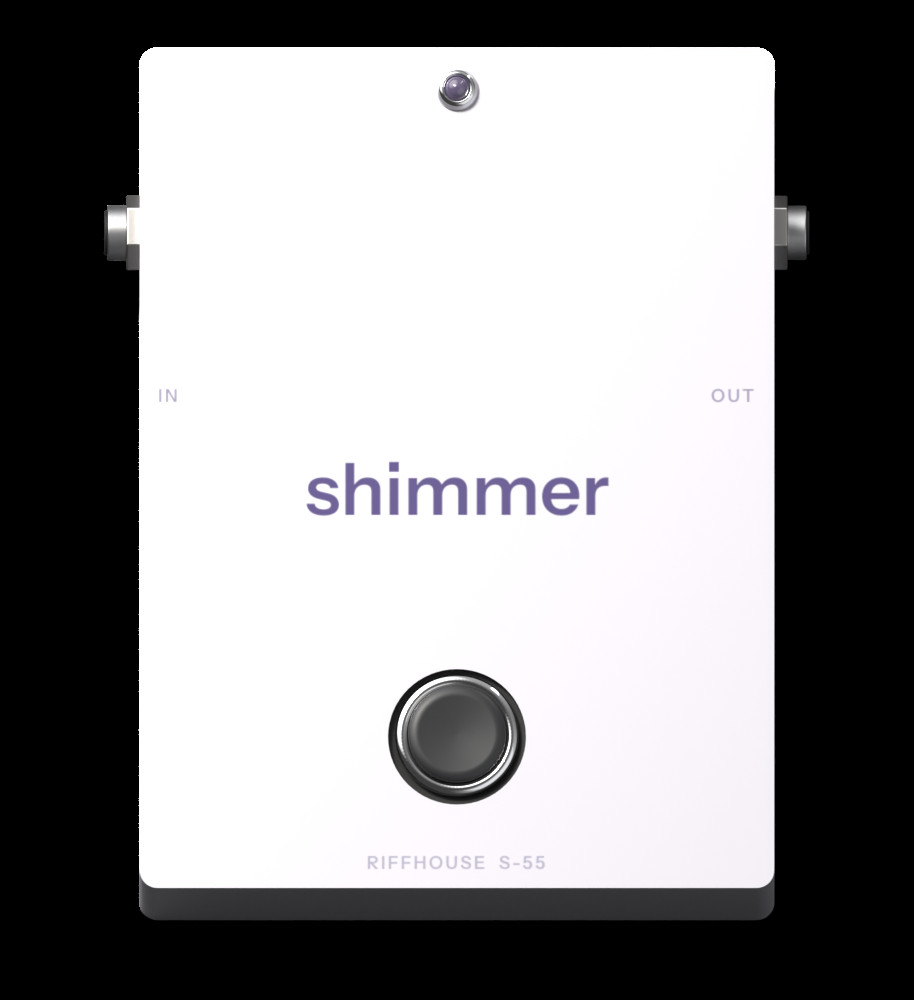
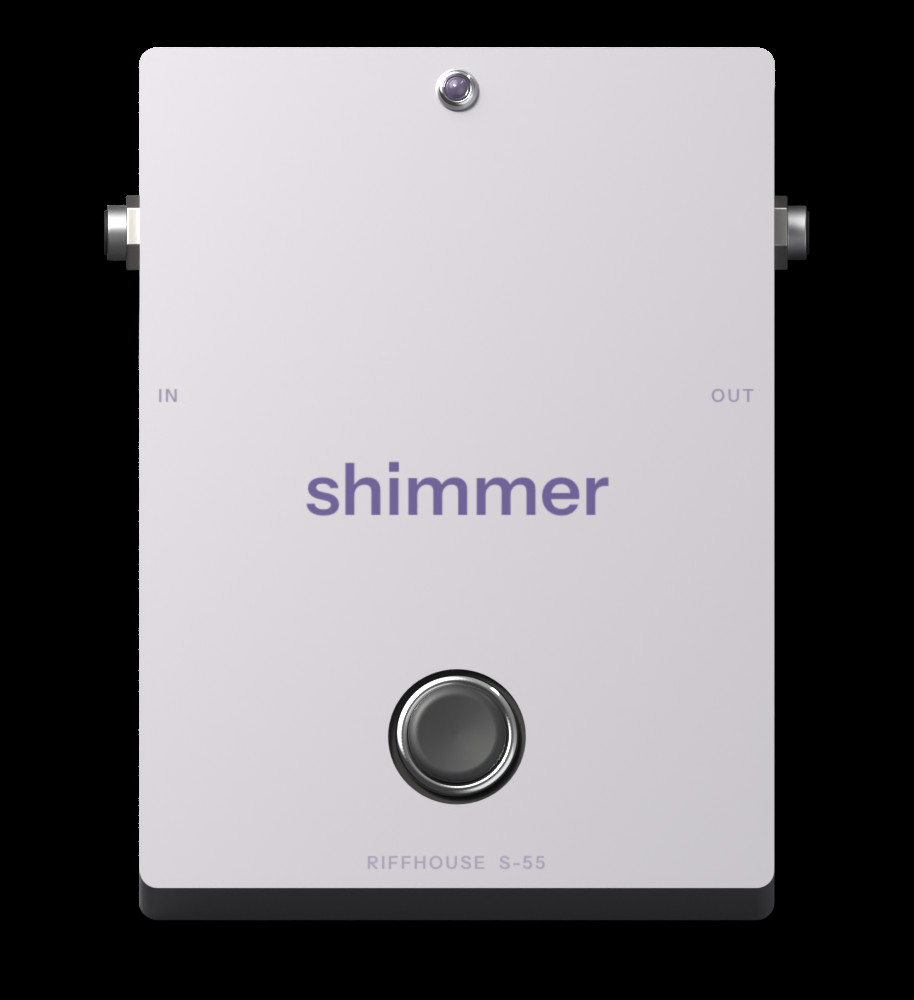
Panel hardware photographed in 3D: power switch, pilot lamps, screws, input jack; shimmer pedal no longer burns out to white

diff --git a/tools/gear3d/parts.py b/tools/gear3d/parts.py
@@ -140,6 +140,110 @@ def fader_cap():
     return obs
 
 
+# ------------------------------------------------------------------ panel hardware
+# Each picture is a square round the middle of the part, `canvas` nominal pixels wide, and the
+# app scales it from the size it draws that part at (see HARDWARE in src/ui/Gear.cpp).
+JEWELS = ("f2351f", "ffc35a", "ec2f1b", "7dffa0", "6fb7ff", "ff9f1c")
+
+
+def hw_stage(canvas, px, samples):
+    return c.Stage((0.0, 0.0, canvas, canvas), 0.0, scale=px / canvas, samples=samples)
+
+
+def nut_and_washer(rn=13.0):
+    """A chrome hex nut on a turned washer, `rn` nominal pixels to its corners."""
+    k = CM
+    washer = c.lathe("washer", [(rn * 1.12 * k, 0.0), (rn * 1.12 * k, 0.5 * k), (rn * 1.09 * k, 0.8 * k), (0.0001, 0.8 * k)], c.nickel(), seg=128)
+    nut = c.prism("nut", 6, rn * k, 0.8 * k, 4.4 * k, c.principled("nut", (0.86, 0.86, 0.87), metallic=1.0, rough=0.16),
+                  rot=math.radians(90), round_edges=0.55 * k)
+    return [washer, nut]
+
+
+def toggle(on):
+    """A bat-handle toggle: nut, threaded bush, and a chrome lever ending in a ball, leaning up when on."""
+    k = CM
+    obs = nut_and_washer()
+    prof = [(6.6 * k, 4.2 * k)]
+    z = 4.6
+    while z < 9.6:                                      # the thread: small turned ridges
+        prof += [(6.6 * k, z * k), (6.15 * k, (z + 0.35) * k)]
+        z += 0.7
+    prof += [(6.6 * k, 9.8 * k), (6.3 * k, 10.2 * k), (3.9 * k, 10.2 * k), (3.9 * k, 9.4 * k), (0.0001, 9.4 * k)]
+    chrome = c.principled("lever", (0.9, 0.9, 0.91), metallic=1.0, rough=0.1)
+    obs.append(c.lathe("bush", prof, c.principled("bush", (0.8, 0.8, 0.81), metallic=1.0, rough=0.2), seg=96))
+    obs.append(c.lathe("mouth", [(3.9 * k, 9.4 * k), (3.9 * k, 9.45 * k), (0.0001, 9.45 * k)], c.black(), seg=48))
+    lever = c.lathe("rod", [(3.4 * k, 0.0), (3.4 * k, 1.6 * k), (3.0 * k, 3.2 * k), (2.3 * k, 17.0 * k), (2.3 * k, 19.5 * k), (0.0001, 19.5 * k)], chrome, seg=48)
+    ball = [(0.0001, 18.2 * k)]
+    for i in range(1, 24):
+        a = -math.pi / 2 + math.pi * i / 24
+        ball.append((4.4 * k * math.cos(a), (22.6 + 4.4 * math.sin(a)) * k))
+    ball.append((0.0001, 27.0 * k))
+    bob = c.lathe("ball", ball, chrome, seg=64)
+    for ob in (lever, bob):
+        ob.location = (0.0, 0.0, 7.0 * k)
+        ob.rotation_euler[0] = math.radians(-48.0 if on else 48.0)   # +y is away from the player: up the picture
+        c.bpy.context.view_layer.objects.active = ob
+    return obs + [lever, bob]
+
+
+def jack():
+    """A quarter-inch input socket: nut and washer, a chrome sleeve, the dark hole."""
+    k = CM
+    obs = nut_and_washer()
+    obs.append(c.lathe("sleeve", [(8.2 * k, 4.0 * k), (8.2 * k, 5.6 * k), (7.6 * k, 6.0 * k), (5.6 * k, 6.0 * k), (5.2 * k, 5.4 * k), (5.2 * k, 1.0 * k), (0.0001, 1.0 * k)],
+                       c.principled("sleeve", (0.88, 0.88, 0.89), metallic=1.0, rough=0.12), seg=96))
+    obs.append(c.lathe("hole", [(5.15 * k, 5.3 * k), (5.15 * k, 1.1 * k), (0.0001, 1.1 * k)], c.principled("hole", (0.004, 0.004, 0.004), rough=0.7), seg=64))
+    return obs
+
+
+def screw(turn):
+    """A domed slotted screw head, 10 nominal pixels across its radius."""
+    import bmesh  # noqa: F401
+    k, rr = CM, 10.0
+    prof = [(rr * k, 0.0), (rr * k, 0.6 * k)]
+    for i in range(1, 13):
+        a = (math.pi / 2) * i / 12
+        prof.append((max(0.0001, rr * k * math.cos(a)), (0.6 + 3.2 * math.sin(a)) * k))
+    head = c.lathe("head", prof, c.principled("screw", (0.74, 0.74, 0.73), metallic=1.0, rough=0.3), seg=96)
+    slot = c.box("slot", -rr * 1.2 * k, rr * 1.2 * k, -1.1 * k, 1.1 * k, 2.0 * k, 6.0 * k, c.black())
+    slot.rotation_euler[2] = turn
+    c.cut(head, slot)
+    c.roll(head, 0.25 * k, 2, 50)
+    return [head]
+
+
+def jewel(hex_colour, on):
+    """A pilot light: a knurled chrome bezel round a faceted glass jewel, 12 nominal pixels to its rim."""
+    k, rr = CM, 12.0
+    col = c.rgb(hex_colour)
+    bezel = c.lathe("bezel", [(17.5 * k, 0.0), (17.5 * k, 1.6 * k), (17.0 * k, 2.4 * k), (13.0 * k, 2.6 * k), (12.4 * k, 1.8 * k), (12.4 * k, 0.4 * k), (0.0001, 0.4 * k)],
+                    c.principled("bezel", (0.86, 0.86, 0.87), metallic=1.0, rough=0.18), seg=160, flutes=40, depth=0.04, flute_rings=(0, 1))
+    glass = c.principled("jewel", tuple(v * (0.8 if on else 0.3) for v in col), rough=0.04, coat=1.0, coat_rough=0.02,
+                         emission=col if on else None, strength=1.1 if on else 0.0)
+    prof = [(rr * k, 0.4 * k), (rr * k, 1.4 * k), (rr * 0.82 * k, 4.0 * k), (rr * 0.45 * k, 5.6 * k), (0.0001, 6.0 * k)]
+    gem = c.lathe("gem", prof, glass, seg=12)                    # few sides: cut facets that catch the light
+    for p in gem.data.polygons:
+        p.use_smooth = False
+    return [bezel, gem]
+
+
+def hardware(out, px, samples, only):
+    jobs = {"hw-toggle-on": (96.0, lambda: toggle(True)), "hw-toggle-off": (96.0, lambda: toggle(False)),
+            "hw-jack": (64.0, jack)}
+    for i in range(4):
+        jobs["hw-screw-%d" % i] = (40.0, (lambda t: lambda: screw(t))(math.pi * i / 4))
+    for h in JEWELS:
+        for on in (True, False):
+            jobs["hw-jewel-%s-%s" % (h, "on" if on else "off")] = (80.0, (lambda hh, oo: lambda: jewel(hh, oo))(h, on))
+    for name, (canvas, make) in jobs.items():
+        if only and name not in only and "hw" not in only:
+            continue
+        print("part", name, flush=True)
+        st = hw_stage(canvas, px, samples)
+        make()
+        st.render(os.path.join(out, name + ".png"))
+
+
 def main():
     args = sys.argv[sys.argv.index("--") + 1:] if "--" in sys.argv else sys.argv[1:]
     out = args[0]
@@ -172,6 +276,8 @@ def main():
             st = stage(px, samples)
             knob_chicken(r, START + (END - START) * f / (FRAMES - 1))
             st.render(os.path.join(out, "_chicken", "%02d.png" % f))
+    if not only or any(n.startswith("hw") for n in only):
+        hardware(out, px, samples, only)
     if not only or "fader-cap" in only:
         print("part fader-cap", flush=True)
         st = stage(px, samples)

diff --git a/src/ui/Gear.cpp b/src/ui/Gear.cpp
@@ -25,8 +25,24 @@ namespace
         g.fillRoundedRectangle (r, radius);
     }
 
+    // Panel hardware photographed in 3D (tools/gear3d/parts.py), placed by its centre on a square canvas.
+    bool hardware (juce::Graphics& g, const juce::String& name, juce::Point<float> c, float canvas)
+    {
+        return art::draw (g, name, R (canvas, canvas).withCentre (c));
+    }
+
+    // a pilot jewel is photographed in each colour the amps use, lit and dark
+    juce::String jewelArtName (juce::uint32 colour, bool on)
+    {
+        return "hw_jewel_" + juce::String::toHexString ((juce::int64) (colour & 0xffffff)).paddedLeft ('0', 6) + (on ? "_on" : "_off");
+    }
+
     void screw (juce::Graphics& g, juce::Point<float> c, float size, float turn)
     {
+        // the slot repeats every half turn: photographed at four angles, take the nearest
+        const float q = juce::MathConstants<float>::pi * 0.25f;
+        const int frame = ((int) std::lround (turn / q) % 4 + 4) % 4;
+        if (hardware (g, "hw_screw_" + juce::String (frame), c, size * 2.0f)) return;
         const auto r = R (size, size).withCentre (c);
         g.setColour (juce::Colours::black.withAlpha (0.45f));
         g.fillEllipse (r.translated (0.0f, 0.8f).expanded (0.6f));
@@ -218,6 +234,7 @@ namespace
     // A quarter-inch jack socket in a panel: nut, washer and the dark hole.
     void jackSocket (juce::Graphics& g, juce::Point<float> c, float radius)
     {
+        if (hardware (g, "hw_jack", c, radius * 64.0f / 13.0f)) return;
         hexNut (g, c, radius);
         const auto hole = R (radius * 0.86f, radius * 0.86f).withCentre (c);
         g.setGradientFill (juce::ColourGradient (C (0xff050505), hole.getX(), hole.getY(), C (0xff2a2b2c), hole.getRight(), hole.getBottom(), false));
@@ -1942,6 +1959,8 @@ namespace
     void lampHousing (juce::Graphics& g, const AmpLayout& l, const AmpDesign& d)
     {
         const auto jc = l.jewel.getCentre();
+        if (d.lamp != 2 && art::has ("hw_toggle_on") && art::has (jewelArtName (d.jewel, true)))
+            return; // the photographed switch and lamp bring their own nut, bush and bezel
         if (d.lamp == 1)
         {
             hexNut (g, jc, 13.0f);
@@ -2319,6 +2338,18 @@ void drawAmpJewel (juce::Graphics& g, const AmpLayout& l, const AmpDesign& d, bo
         // a bat-handle toggle: up is on. Its little lamp sits above it. The lever is a turned
         // chrome rod that thickens to a ball; seen from above it leans toward the top or the bottom.
         const auto c = r.getCentre();
+        if (art::has (jewelArtName (d.jewel, on)) && hardware (g, on ? "hw_toggle_on" : "hw_toggle_off", c, 96.0f))
+        {
+            r = R (9.0f, 9.0f).withCentre ({ c.x, c.y - 32.0f }); // a touch higher: the raised lever's ball clears its bezel
+            if (on)
+            {
+                const float halo = r.getWidth() * 1.4f;
+                g.setGradientFill (juce::ColourGradient (jewel.withAlpha (0.32f), r.getCentreX(), r.getCentreY(), jewel.withAlpha (0.0f), r.getCentreX() + halo, r.getCentreY(), true));
+                g.fillEllipse (r.expanded (halo));
+            }
+            hardware (g, jewelArtName (d.jewel, on), r.getCentre(), 80.0f * r.getWidth() * 0.5f / 12.0f);
+            return;
+        }
         const float dir = on ? -1.0f : 1.0f;
         const float len = 17.0f, baseW = 4.4f, neckW = 3.3f, ball = 4.5f;
         const juce::Point<float> tip (c.x + 0.4f, c.y + dir * len);
@@ -2404,12 +2435,15 @@ void drawAmpJewel (juce::Graphics& g, const AmpLayout& l, const AmpDesign& d, bo
         g.drawEllipse (R (6.0f, 6.0f).withCentre ({ face.getCentreX(), face.getBottom() - 9.0f }), 1.2f);
         return;
     }
+    const bool photographed = d.lamp == 0 && art::has (jewelArtName (d.jewel, on)) && art::has ("hw_toggle_on");
     if (on)
     {
         const float halo = r.getWidth() * 1.4f;
-        g.setGradientFill (juce::ColourGradient (jewel.withAlpha (0.42f), r.getCentreX(), r.getCentreY(), jewel.withAlpha (0.0f), r.getCentreX() + halo, r.getCentreY(), true));
+        g.setGradientFill (juce::ColourGradient (jewel.withAlpha (photographed ? 0.32f : 0.42f), r.getCentreX(), r.getCentreY(), jewel.withAlpha (0.0f), r.getCentreX() + halo, r.getCentreY(), true));
         g.fillEllipse (r.expanded (halo));
     }
+    if (photographed && hardware (g, jewelArtName (d.jewel, on), r.getCentre(), 80.0f * r.getWidth() * 0.5f / 12.0f))
+        return;
     juce::ColourGradient glass (on ? hot : jewel.darker (2.0f), r.getCentreX() - r.getWidth() * 0.12f, r.getCentreY() - r.getWidth() * 0.12f,
                                 on ? jewel.darker (0.35f) : jewel.darker (3.5f), r.getRight(), r.getBottom(), true);
     if (on) glass.addColour (0.45, jewel);

diff --git a/tools/gear3d/common.py b/tools/gear3d/common.py
@@ -294,6 +294,9 @@ def finish_material(finish, body_hex, seed=0.0):
     """The six paints and metals a pedal comes in. 0 enamel, 1 hammertone, 2 sparkle, 3 brushed, 4 crinkle, 5 anodised."""
     c = rgb(body_hex)
     deep = tuple(v * 0.62 for v in c)       # paint reads lighter under a bright key light than its swatch
+    top = max(deep)
+    if top > 0.36:                          # near-white paint clips to flat white under the key: hold it down
+        deep = tuple(v * 0.36 / top for v in deep)
     if finish == 0:      # gloss enamel under a clear coat, with a little orange peel
         m = principled("enamel", deep, metallic=0.1, rough=0.5, coat=0.45, coat_rough=0.1)
         n = Nodes(m)
@@ -332,7 +335,11 @@ def finish_material(finish, body_hex, seed=0.0):
         w2 = n.noise(120.0, 3.0)
         n.link(n.bump(n.math("ADD", w, n.math("MULTIPLY", w2, 0.4)), 0.55, 0.02), n.bsdf.inputs["Normal"])
     else:                # anodised: dyed satin metal
-        m = principled("anodised", tuple(max(v * 0.9, 0.01) for v in c), metallic=0.85, rough=0.42)
+        dye = tuple(max(v * 0.9, 0.01) for v in c)
+        top = max(dye)
+        if top > 0.5:                       # a pale dye on bright metal burns out to white: hold it down
+            dye = tuple(v * 0.5 / top for v in dye)
+        m = principled("anodised", dye, metallic=0.85, rough=0.42)
         n = Nodes(m)
         n.link(n.bump(n.noise(260.0, 2.0), 0.04, 0.005), n.bsdf.inputs["Normal"])
     return m

diff --git a/tools/gear3d/pack.py b/tools/gear3d/pack.py
@@ -5,7 +5,7 @@
     python pack.py <render folder> <resources/gear>
 
 A big picture becomes a JPEG for its colour and a grey PNG for how solid each pixel is: a fifth
-of the size of one PNG. Knobs stay PNGs. The chicken-head frames become one sheet, 13 across.
+of the size of one PNG. Knobs and panel hardware stay PNGs. The chicken-head frames become one sheet, 13 across.
 """
 import glob
 import os
@@ -44,9 +44,10 @@ total = 0
 for f in sorted(glob.glob(os.path.join(src, "*.png"))):
     name = os.path.splitext(os.path.basename(f))[0].replace("-", "_")
     im = Image.open(f).convert("RGBA")
-    if name.startswith(("knob", "fader")):
-        im = fade_round(im, 0.72, 0.98)
-        im = im.resize((256, 256), Image.LANCZOS) if im.width > 256 else im
+    if name.startswith(("knob", "fader", "hw_")):
+        im = fade_round(im, 0.72 if not name.startswith("hw_") else 0.8, 0.98)
+        side = 128 if name.startswith("hw_screw") else 192 if name.startswith("hw_jack") else 256  # panel hardware: small on screen
+        im = im.resize((side, side), Image.LANCZOS) if im.width > side else im
         out = os.path.join(dst, name + ".png")
         im.save(out, optimize=True)
         total += os.path.getsize(out)
